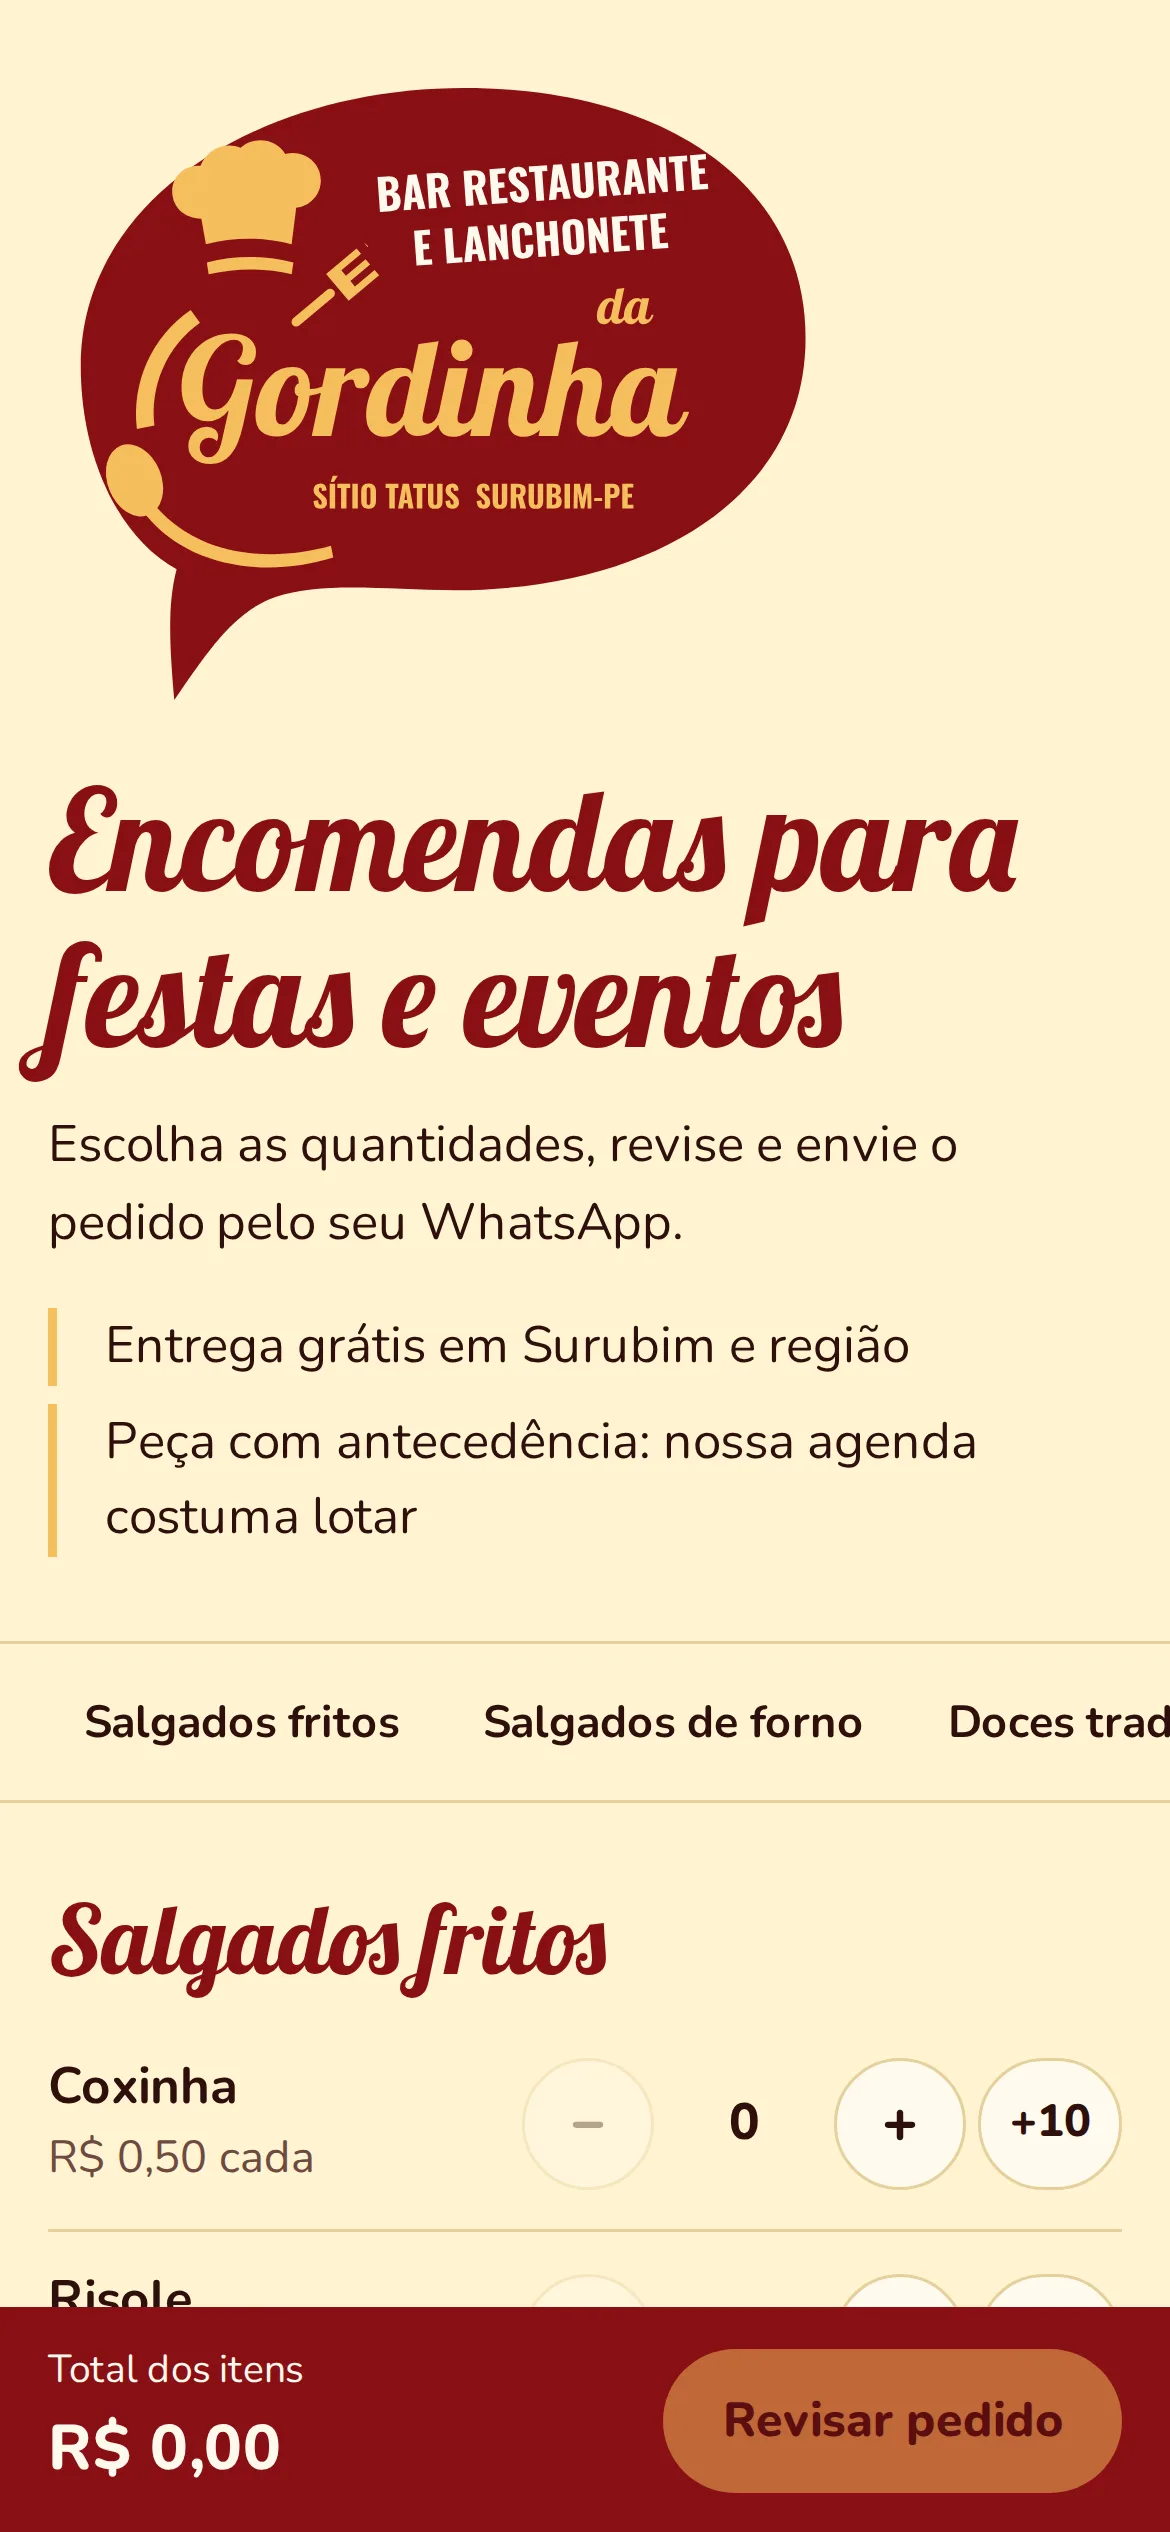
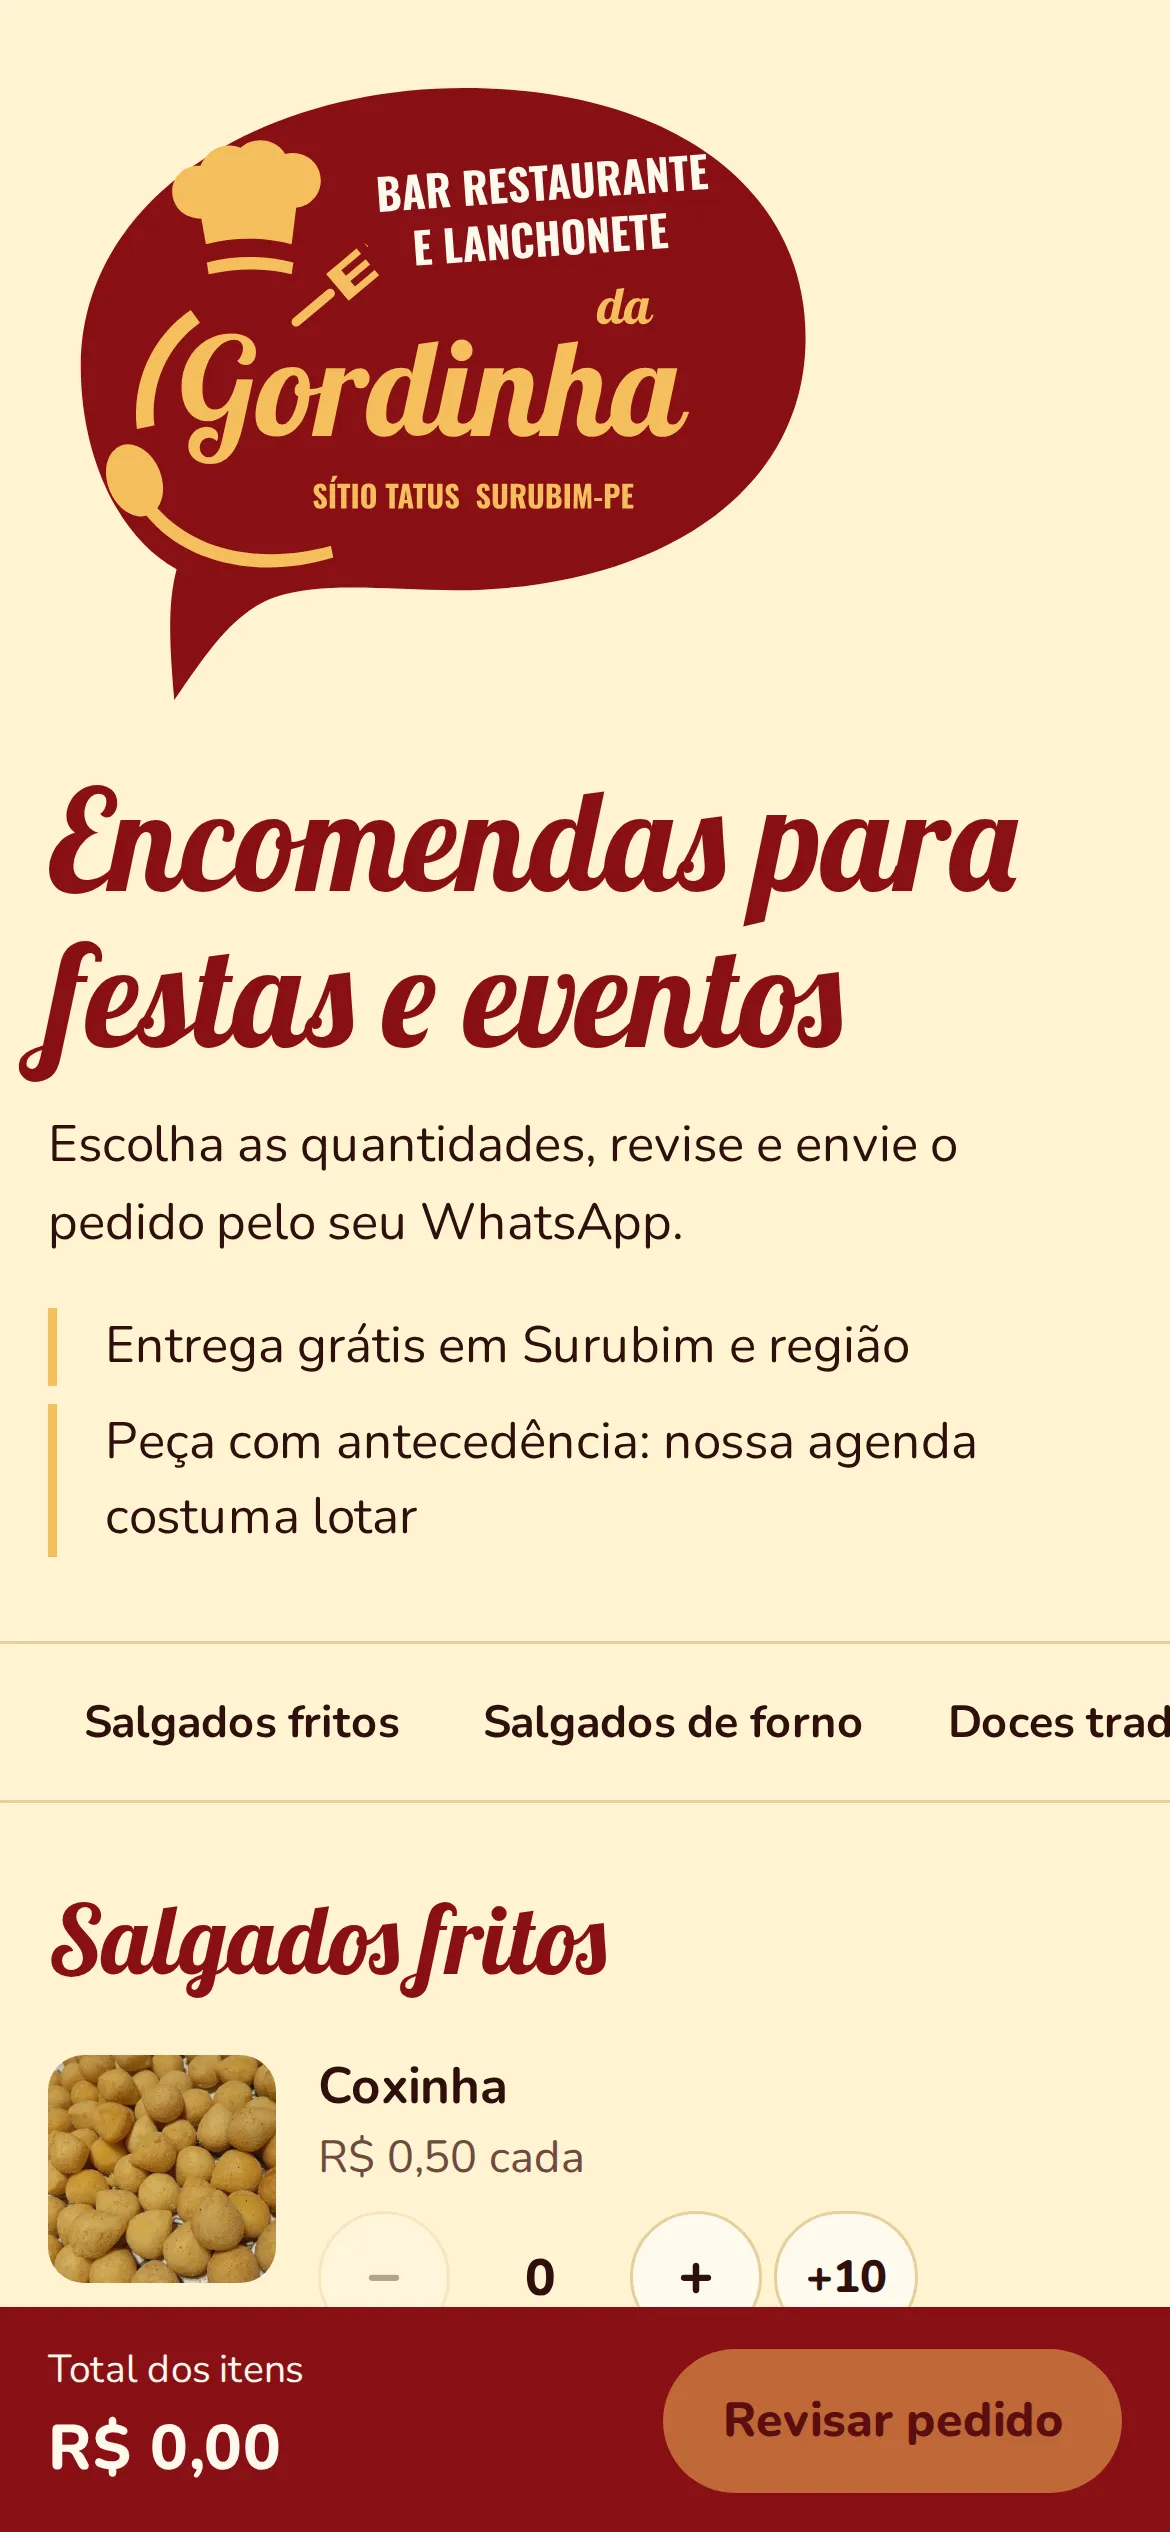
feat(projetos): atualiza capa e telas da Lanchonete da Gordinha com as fotos

Changed region(s): [[0.0308, 0.8112, 0.4923, 0.936], [0.5231, 0.8112, 0.9538, 0.936], [0.6154, 0.8112, 0.6462, 0.8424]]

diff --git a/src/content/projetos/lanchonete-gordinha.md b/src/content/projetos/lanchonete-gordinha.md
@@ -12,7 +12,7 @@ gallery:
   - src: "../../assets/projetos/lanchonete-gordinha/inicio.webp"
     alt: "Topo do site no celular, com a logo da lanchonete, o título Encomendas para festas e eventos e o início do cardápio"
   - src: "../../assets/projetos/lanchonete-gordinha/itens.webp"
-    alt: "Cardápio de salgados fritos com botões de quantidade e o total do pedido fixo no fim da tela"
+    alt: "Cardápio de salgados fritos com a foto de cada item, botões de quantidade e o total do pedido fixo no fim da tela"
   - src: "../../assets/projetos/lanchonete-gordinha/pedido.webp"
     alt: "Revisão do pedido com data, entrega, forma de pagamento e a prévia da mensagem que será enviada"
 ---
